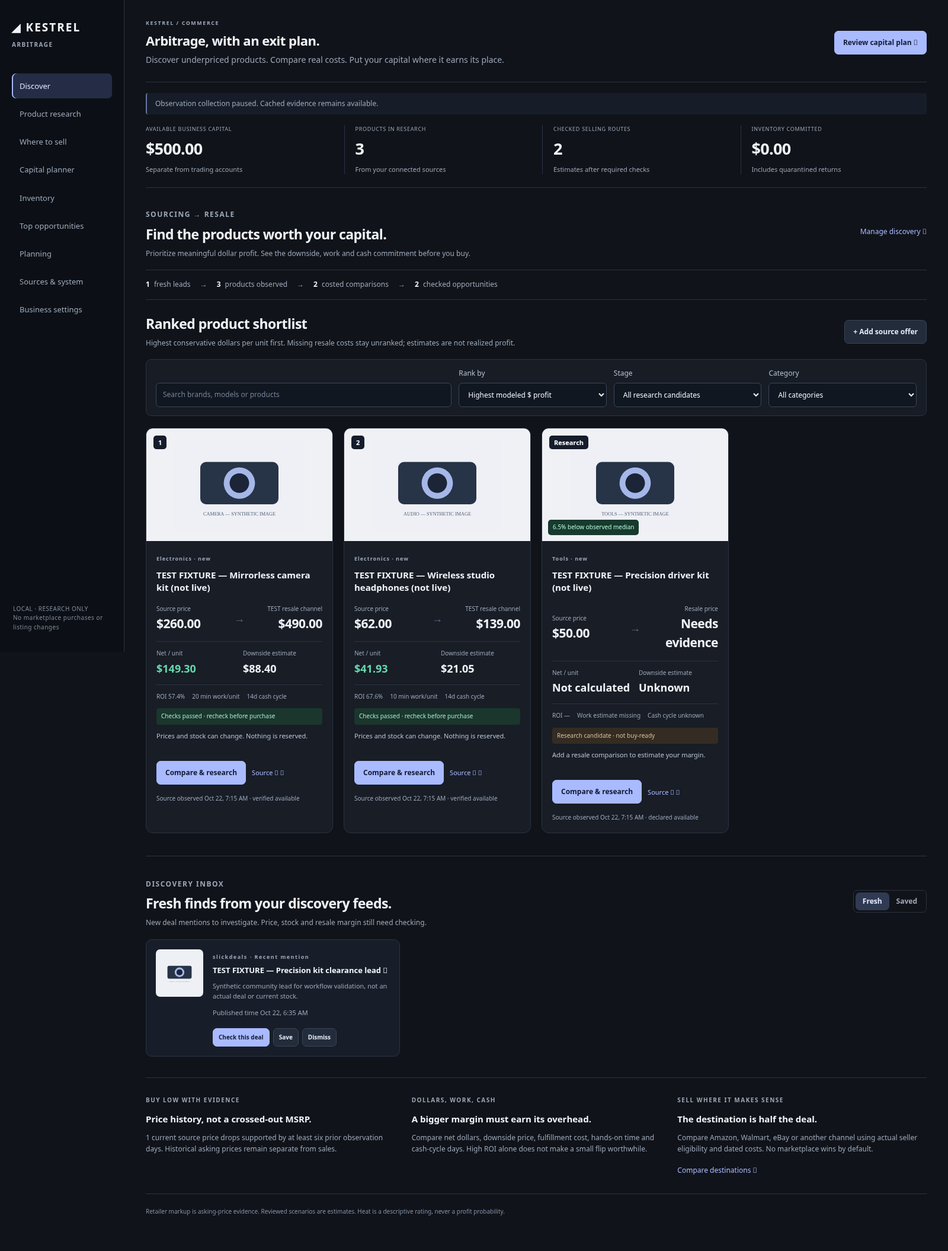
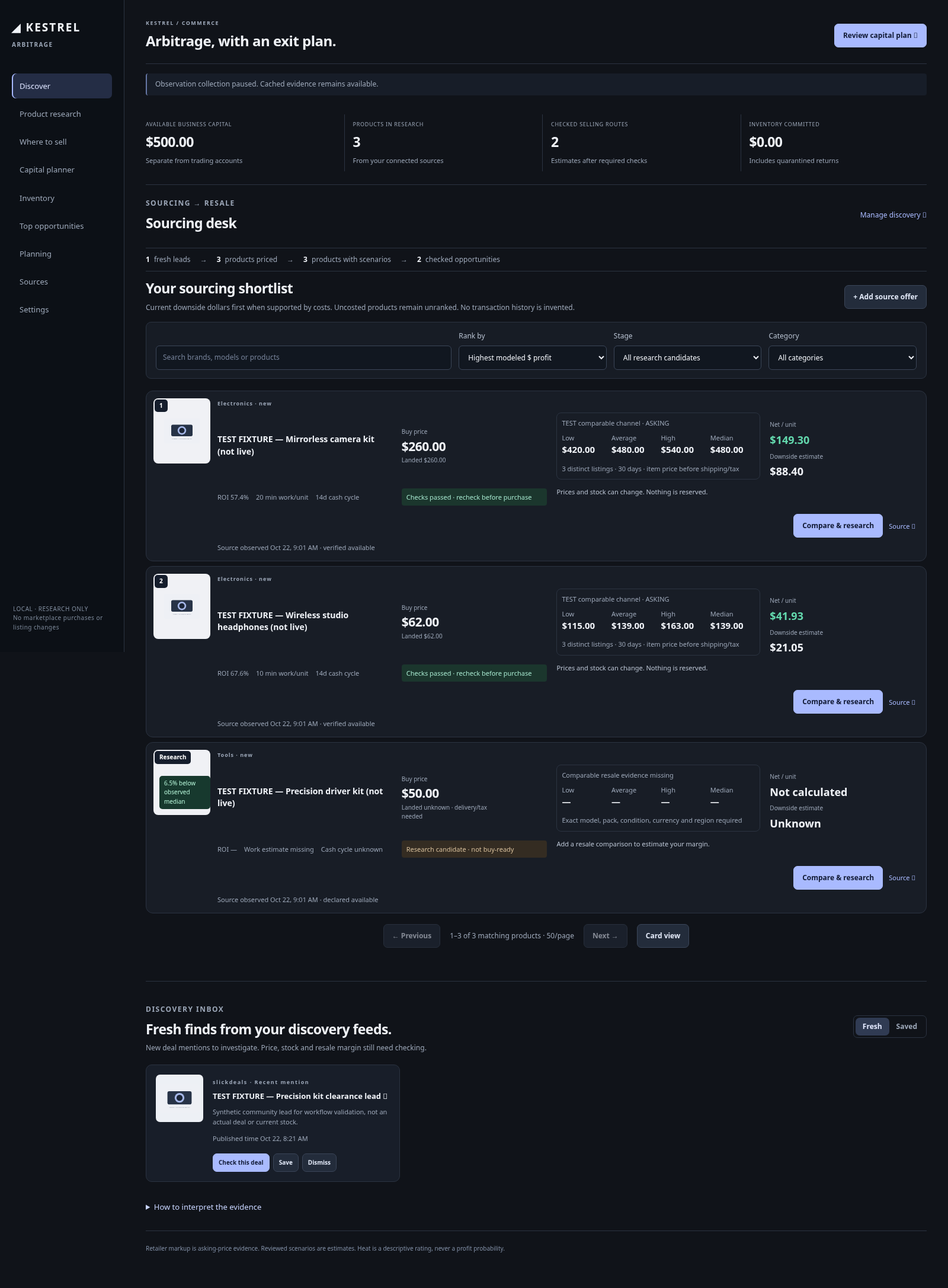
Verify Stocks and Arbitrage browser flows and repair catalog search

diff --git a/src/desk/arbitrage/static/app.js b/src/desk/arbitrage/static/app.js
@@ -147,7 +147,7 @@ function status() {
             ? "Another Arbitrage collector owns the lock; this dashboard reads its progress."
             : state.collector.active
               ? "Discovery is running. New leads and source observations appear as requests finish."
-              : "Collector inactive; enable it in Business settings."),
+              : "Collector inactive; enable it in Settings."),
     Boolean(state.coverage.analysis_error || state.collector.error),
   );
   $("#stats").innerHTML = [
@@ -252,7 +252,7 @@ function board(rows, qualified = false) {
           d.discount_fraction &&
           Number(d.discount_fraction) > 0,
       );
-      return `<article class="deal-card"><a class="product-photo" href="#product/${esc(p.id)}">${photo(p)}<span class="card-rank">${rank < 0 ? "Research" : rank + 1}</span>${drop ? `<span class="price-drop">${pct(drop.discount_fraction)} below observed median</span>` : ""}</a><div class="deal-body"><span class="eyebrow">${esc(p.category)} · ${esc(p.condition)}</span><h3><a href="#product/${esc(p.id)}">${esc(p.title)}</a></h3><div class="trade-path"><div><span>Buy price</span><strong>${o ? esc(money(o.price, o.currency)) : "Unknown"}</strong><small class="landed">Landed ${o && o.shipping != null && o.tax != null ? esc(money(Number(o.price) + Number(o.shipping) + Number(o.tax), o.currency)) : "unknown · delivery/tax needed"}</small></div><span class="path-arrow">→</span><div><span>${r ? esc(r.channel) : "Resale price"}</span><strong>${r ? esc(money(r.price, r.currency)) : "Needs evidence"}</strong></div></div>${resaleStats(b)}<div class="profit-strip"><span>Net / unit <strong class="${r && Number(r.net_profit) > 0 ? "good" : ""}">${r ? esc(money(r.net_profit, r.currency)) : "Not calculated"}</strong></span><span>Downside estimate <strong>${r ? esc(money(r.stress_profit, r.currency)) : "Unknown"}</strong></span></div><div class="card-facts"><span>ROI ${r ? pct(r.roi) : "—"}</span><span>${r?.effort_minutes ? `${r.effort_minutes} min work/unit` : "Work estimate missing"}</span><span>${r?.days_to_cash ? `${r.days_to_cash}d cash cycle` : "Cash cycle unknown"}</span></div><span class="evidence-state ${r?.qualifies ? "ready" : "pending"}">${r?.qualifies ? "Checks passed · recheck before purchase" : "Research candidate · not buy-ready"}</span><p class="next-step">${!p.identity_confirmed ? "Check the exact model, pack and condition." : !r ? "Add a resale comparison to estimate your margin." : esc(r.blockers[0] || "Prices and stock can change. Nothing is reserved.")}</p><div class="toolbar"><a class="button" href="#product/${esc(p.id)}">Compare & research</a>${o ? external(o.url, "Source ↗") : ""}</div><span class="caption">Source observed ${o ? esc(stamp(o.at)) : "never"} · ${o ? esc(availability(o).replaceAll("_", " ").toLowerCase()) : "No offer"}</span></div></article>`;
+      return `<article class="deal-card"><a class="product-photo" href="#product/${esc(p.id)}">${photo(p)}<span class="card-rank">${rank < 0 ? "Research" : rank + 1}</span>${drop ? `<span class="price-drop">${pct(drop.discount_fraction)} below observed median</span>` : ""}</a><div class="deal-body"><span class="eyebrow">${esc(p.category)} · ${esc(p.condition)}</span><h3><a href="#product/${esc(p.id)}">${esc(p.title)}</a></h3><div class="trade-path"><div><span>Buy price</span><strong>${o ? esc(money(o.price, o.currency)) : "Unknown"}</strong><small class="landed">Landed ${o && o.shipping != null && o.tax != null ? esc(money(Number(o.price) + Number(o.shipping) + Number(o.tax), o.currency)) : "unknown · delivery/tax needed"}</small></div><span class="path-arrow">→</span><div><span>${r ? esc(r.channel) : "Resale price"}</span><strong>${r ? esc(money(r.price, r.currency)) : "Needs evidence"}</strong></div></div>${resaleStats(b)}<div class="profit-strip"><span>Net / unit <strong class="${r && Number(r.net_profit) > 0 ? "good" : ""}">${r ? esc(money(r.net_profit, r.currency)) : "Not calculated"}</strong></span><span>Downside estimate <strong>${r ? esc(money(r.stress_profit, r.currency)) : "Unknown"}</strong></span></div><div class="card-facts"><span>ROI ${r ? pct(r.roi) : "—"}</span><span>${r?.effort_minutes ? `${r.effort_minutes} min work/unit` : "Work estimate missing"}</span><span>${r?.days_to_cash ? `${r.days_to_cash}d cash cycle` : "Cash cycle unknown"}</span></div><span class="evidence-state ${r?.qualifies ? "ready" : "pending"}">${r?.qualifies ? "Checks passed · recheck before purchase" : "Research candidate · not buy-ready"}</span><p class="next-step">${!p.identity_confirmed ? "Check the exact model, pack and condition." : !r ? "Add a resale comparison to estimate your margin." : esc(r.blockers[0] || "Prices and stock can change. Nothing is reserved.")}</p><div class="toolbar"><a class="button" href="#product/${esc(p.id)}">Compare & research</a>${o ? external(o.url, "Source") : ""}</div><span class="caption">Source observed ${o ? esc(stamp(o.at)) : "never"} · ${o ? esc(availability(o).replaceAll("_", " ").toLowerCase()) : "No offer"}</span></div></article>`;
     })
     .join("")}</div>`;
 }
@@ -271,7 +271,7 @@ function leadCards() {
               `<article class="lead-card"><div class="lead-image">${photo(l)}</div><div><span class="eyebrow">${esc(l.source_id.replace("deals-", ""))} · ${l.fresh ? "Recent mention" : "Older lead"}</span><h3>${external(l.url, l.title)}</h3><p>${esc(l.summary.slice(0, 160))}</p><span class="caption">${esc(l.age_basis)} ${esc(stamp(l.published_at || l.first_seen_at))}</span><div class="toolbar"><button class="primary" data-action="lead-offer" data-id="${esc(l.id)}">Check this deal</button><button data-action="lead-save" data-id="${esc(l.id)}">${l.saved ? "Unsave" : "Save"}</button><button data-action="lead-dismiss" data-id="${esc(l.id)}" aria-label="Dismiss ${esc(l.title)}">Dismiss</button></div></div></article>`,
           )
           .join("")}</div>`
-      : `<div class="empty compact"><h3>${browse.leads === "saved" ? "No saved leads yet" : "No recent feed leads have arrived"}</h3><p>${browse.leads === "saved" ? "Save a discovery lead to keep its research context." : "Two public feed adapters are included. Source access must succeed before deals appear; their live acceptance is still pending. eBay listings use a separate connection."}</p><a href="#sources">See source progress and connection options ↗</a></div>`
+      : `<div class="empty compact"><h3>${browse.leads === "saved" ? "No saved leads yet" : "No recent feed leads have arrived"}</h3><p>${browse.leads === "saved" ? "Save a discovery lead to keep its research context." : "Two public feed adapters are included. Source access must succeed before deals appear; their live acceptance is still pending. eBay listings use a separate connection."}</p><a href="#settings">See source progress and connection options ↗</a></div>`
   }`;
 }
 function orderedRows(qualified) {
@@ -280,8 +280,8 @@ function orderedRows(qualified) {
   );
   rows = rows.filter(
     (b) =>
-      (!browse.category || b.product.category === browse.category) &&
-      b.product.title.toLowerCase().includes(browse.query.toLowerCase()) &&
+      // The server searches title, brand and model across the catalog.
+      // Filtering again by title would hide valid brand/model matches.
       (browse.mode !== "qualified" || b.routes.some((r) => r.qualifies)) &&
       (browse.mode !== "fresh" ||
         b.offers.some(
@@ -345,7 +345,7 @@ function comparisons(b) {
   return `<section class="panel comparison-panel"><div class="section-heading"><div><p class="eyebrow">WHERE TO SELL</p><h2>${c?.recommended ? `Best checked destination: ${esc(c.recommended.channel)}` : "Compare the exit before buying."}</h2><p>${esc(c?.reason || "No destination comparisons yet.")}</p></div><button class="primary" data-action="route" data-id="${esc(b.product.id)}">+ Compare destination</button></div>${c?.alternatives.length ? `<div class="table-wrap"><table><thead><tr><th>Destination</th><th>Source → sell</th><th>Net / unit</th><th>Downside / break-even</th><th>Work / cash cycle</th><th>Remaining checks</th></tr></thead><tbody>${c.alternatives.map((r) => `<tr><td><strong>${esc(r.channel)}</strong><span class="meta">${esc(r.fulfillment)}</span></td><td>${esc(money(r.landed_cost, r.currency))} → ${esc(money(r.price, r.currency))}<br>${external(r.source_url, "Source offer")}</td><td class="${Number(r.net_profit) > 0 ? "good" : ""}"><strong>${esc(money(r.net_profit, r.currency))}</strong><span class="meta">${pct(r.roi)} ROI on landed cost</span></td><td>${esc(money(r.stress_profit, r.currency))}<br><span class="meta">Break-even ${esc(money(r.break_even, r.currency))}</span></td><td>${r.effort_minutes ? `${r.effort_minutes} min/unit` : "Work unknown"}<br>${r.days_to_cash ? `${r.days_to_cash} days` : "Timing unknown"}</td><td>${r.qualifies ? '<span class="good">Checks passed</span>' : r.blockers.map((x) => `<span class="blocker">${esc(x)}</span>`).join("")}<button class="text-button" data-action="route-edit" data-id="${esc(r.route_id)}">Edit assumptions</button></td></tr>`).join("")}</tbody></table></div>` : '<div class="empty compact"><h3>No selling destinations compared.</h3><p>Add a realistic resale price and actual channel costs. Missing fields stay unknown, so you can begin research without claiming a profitable purchase.</p></div>'}</section>`;
 }
 function sourceSetupHtml() {
-  return `<section class="panel"><h2>Source connections & saved searches</h2><p>Configure collection here. Browse collected products on the Sources page.</p><h3>Your automatic monitors</h3><p>Public feed adapters discover deal mentions, eBay searches discover active listings, and the retailer adapter watches exact product pages. Each source reports its actual access result below. New feed endpoints still require real-network acceptance; they are not a confirmed sales feed.</p><div class="toolbar"><button id="toggle">${state.settings.enabled ? "Pause collection" : "Resume collection"}</button><button data-action="source">Add supported product URL</button><button data-action="ebay-source">Add eBay search</button><button data-action="observation">Record real observation</button><button data-action="signal">Import evidence</button></div>${state.sources
+  return `<section class="panel"><h2>Source connections & saved searches</h2><p>Configure collection here. Browse collected products on the Sources page.</p><details><summary>External product research</summary><p>Search external sites by exact model. These links do not import results or confirm stock.</p><form id="discovery-form"><label>What do you want to source?<input id="discovery-query" type="search" placeholder="e.g. LEGO 75375 or DeWalt DCD800" required maxlength="100"></label><button class="primary">Find sourcing and resale searches</button></form><div id="discovery-links"></div></details><h3>Your automatic monitors</h3><p>Public feed adapters discover deal mentions, eBay searches discover active listings, and the retailer adapter watches exact product pages. Each source reports its actual access result below. New feed endpoints still require real-network acceptance; they are not a confirmed sales feed.</p><div class="toolbar"><button id="toggle">${state.settings.enabled ? "Pause collection" : "Resume collection"}</button><button data-action="source">Add supported product URL</button><button data-action="ebay-source">Add eBay search</button><button data-action="observation">Record real observation</button><button data-action="signal">Import evidence</button></div>${state.sources
       .map((s) => {
         const j = state.jobs[s.id] || {};
         return `<div class="line"><div>${external(s.url, s.id)} ${esc(s.query || "")}<br><span class="caption">${esc(j.status || "Waiting for first attempt")} · last success ${esc(j.last_ok_at || "None")}<br>${esc(j.error || "")}${j.retry_at ? "<br>Next retry after " + esc(j.retry_at) : ""}</span></div><span><span class="badge">${esc(s.adapter)}</span><button data-action="source-toggle" data-id="${esc(s.id)}">${s.enabled ? "Pause source" : "Resume source"}</button></span></div>`;
@@ -355,6 +355,54 @@ function sourceSetupHtml() {
       )}<h3>Coverage gaps</h3><p>Automatic completed-sales, broad retailer discovery, Amazon FBA/Walmart WFS fee estimates and marketplace eligibility checks are not connected. Enter reviewed scenarios and your own evidence locally; never paste private API credentials into chat.</p><p>FBA means Amazon stores, packs and ships your inventory for fees. WFS is Walmart’s fulfillment service. These services require separate seller eligibility and item-specific costs.</p><p class="caption">Asking-price retention: up to 90 days / 100,000 observations; eBay API listing cache is capped at 24 hours pending a fuller licensing review. Inventory events remain append-only. Ratings require a comparable channel/metric cohort and sufficient dated evidence.</p><a href="/api/capabilities" target="_blank" rel="noopener">Machine-readable capabilities & contracts ↗</a></section>`;
 }
 function bindSourceSetup() {
+    $("#discovery-form").onsubmit = (e) => {
+      e.preventDefault();
+      const q = encodeURIComponent($("#discovery-query").value.trim());
+      const links = [
+        [
+          "Google Shopping",
+          "https://www.google.com/search?tbm=shop&q=" + q,
+          "Compare advertised offers; stock and shipping vary.",
+        ],
+        [
+          "Slickdeals",
+          "https://slickdeals.net/newsearch.php?q=" + q,
+          "Community deal leads; posts may be expired.",
+        ],
+        [
+          "Walmart",
+          "https://www.walmart.com/search?q=" + q,
+          "Retail and marketplace offers; check seller and exact pack.",
+        ],
+        [
+          "Target",
+          "https://www.target.com/s?searchTerm=" + q,
+          "Retail search; local availability varies.",
+        ],
+        [
+          "eBay sold listings",
+          "https://www.ebay.com/sch/i.html?_nkw=" +
+            q +
+            "&LH_Sold=1&LH_Complete=1",
+          "Manual comparable research; accepted-offer prices may be hidden.",
+        ],
+        [
+          "Amazon",
+          "https://www.amazon.com/s?k=" + q,
+          "Compare listing prices; these are not confirmed sales.",
+        ],
+      ];
+      $("#discovery-links").innerHTML =
+        '<div class="source-grid">' +
+        links
+          .map(
+            ([name, url, note]) =>
+              `<article class="panel"><h3>${external(url, name)}</h3><span class="badge">External research · not an automatic feed</span><p>${esc(note)}</p></article>`,
+          )
+          .join("") +
+        "</div><p>Found a candidate? Use Record real observation below. Only eBay searches and supported retailer URLs are monitored automatically.</p>";
+    };
+
   $("#toggle").onclick = async () => {
     await save("/api/settings", {...state.settings, enabled: !state.settings.enabled});
   };

diff --git a/research/arbitrage/validation/browser_server.py b/research/arbitrage/validation/browser_server.py
@@ -6,6 +6,7 @@ from tempfile import TemporaryDirectory
 import uvicorn
 from desk.arbitrage.contracts import Product, Observation, Route, Settings, DealLead
 from desk.arbitrage.repo import Repo
+from desk.arbitrage.comparables import Comparable, save as save_comparable
 from desk.arbitrage.runner import initialize
 from desk.arbitrage.web import create_app
 from desk.core.paths import DeskPaths
@@ -14,7 +15,7 @@ with TemporaryDirectory(prefix='kestrel-arbitrage-ui-') as temporary:
     paths=DeskPaths(root/'data',root/'config',root/'no-credentials.json')
     initialize(paths)
     now=datetime.now(UTC)
-    p=Product(id='ui-fixture',title='TEST FIXTURE — Precision driver kit (not live)',brand='Fixture',mpn='FIX24',category='Tools',pack_count=1,variant='24 pieces',identity_confirmed=True,image_url='https://i.ebayimg.com/kestrel-test-tools.svg')
+    p=Product(id='ui-fixture',title='TEST FIXTURE — Precision driver kit (not live)',brand='Fixture',mpn='FIX24',gtin='012345678905',category='Tools',pack_count=1,variant='24 pieces',identity_confirmed=True,image_url='https://i.ebayimg.com/kestrel-test-tools.svg')
     with Repo.open(paths) as repo:
         repo.save_settings(Settings(capital=500,enabled=False))
         for d in range(7):
@@ -24,9 +25,16 @@ with TemporaryDirectory(prefix='kestrel-arbitrage-ui-') as temporary:
             ('camera','Mirrorless camera kit',Decimal('260'),Decimal('490'),Decimal('420'),20),
             ('headphones','Wireless studio headphones',Decimal('62'),Decimal('139'),Decimal('115'),10),
         ]:
-            product=Product(id='ui-'+key,title='TEST FIXTURE — '+title+' (not live)',category='Electronics',brand='Fixture',mpn=key,pack_count=1,identity_confirmed=True,image_url='https://i.ebayimg.com/kestrel-test-'+key+'.svg')
+            product=Product(id='ui-'+key,title='TEST FIXTURE — '+title+' (not live)',category='Electronics',brand='SyntheticOptics' if key=='camera' else 'SyntheticAudio',mpn='MODEL-'+key,gtin='4006381333931' if key=='camera' else '012345678905',pack_count=1,identity_confirmed=True,image_url='https://i.ebayimg.com/kestrel-test-'+key+'.svg')
             repo.observe(Observation(product=product,source_id='ui-'+key,url='https://www.adafruit.com/product/4300',price=price,currency='USD',at=now,availability='VERIFIED_AVAILABLE',region='US',quantity=1,shipping=0,tax=0,verified_until=now+timedelta(minutes=5),method='synthetic-browser-fixture',evidence='SYNTHETIC: no real stock or price'))
             repo.save_route(Route(id='route-'+key,product_id=product.id,channel='TEST resale channel',sale_price=sale,stress_price=stress,fee_fraction=Decimal('.13'),fixed_fee=0,fulfillment_cost=8,return_allowance=5,overhead=4,monthly_cost=0,days_to_cash=14,effort_minutes=minutes,demand_limit=1,eligible=True,identity_confirmed=True,reviewed=True,fee_version='synthetic',evidence_note='Synthetic test only',valid_until=now+timedelta(days=1)))
+            for index, sample_price in enumerate([420, 480, 540] if key=='camera' else [115, 139, 163]):
+                save_comparable(repo, Comparable(id=f'fixture-{key}-{index}',product_id=product.id,
+                    title=product.title,channel='TEST comparable channel',
+                    url=f'https://www.ebay.com/itm/fixture-{key}-{index}',price=sample_price,
+                    currency='USD',region='US',condition=product.condition,pack_count=1,gtin=product.gtin,
+                    evidence_type='ASKING',at=now-timedelta(days=index),
+                    evidence_note='SYNTHETIC browser fixture, not an actual listing or sale'))
         repo.save_leads([DealLead(id='ui-deal',source_id='deals-slickdeals',title='TEST FIXTURE — Precision kit clearance lead',url='https://slickdeals.net/f/123-fixture',summary='Synthetic community lead for workflow validation, not an actual deal or current stock.',published_at=now-timedelta(minutes=40),first_seen_at=now,retrieved_at=now,image_url='https://i.ebayimg.com/kestrel-test-tools.svg')])
     app=create_app(paths,auto_start=False)
     @app.get('/test-fixture-identity')

diff --git a/src/desk/arbitrage/repo.py b/src/desk/arbitrage/repo.py
@@ -149,12 +149,18 @@ class Repo:
                     current_at: str = "") -> tuple[list[str], int]:
         args = (query[:200], query[:200], category[:80], category[:80], source_host, source_host)
         total = self.conn.execute("SELECT COUNT(*) FROM arb_products p WHERE "
-            "(?='' OR instr(lower(json_extract(p.body,'$.title')), lower(?))>0) "
+            "(?='' OR instr(lower(json_extract(p.body,'$.title') || ' ' || "
+                  "coalesce(json_extract(p.body,'$.brand'),'') || ' ' || "
+                  "coalesce(json_extract(p.body,'$.mpn'),'') || ' ' || "
+                  "coalesce(json_extract(p.body,'$.gtin'),'')), lower(?))>0) "
             "AND (?='' OR json_extract(p.body,'$.category')=?) "
             "AND (?='' OR EXISTS(SELECT 1 FROM arb_product_sources m WHERE m.product_id=p.id AND m.host=?))", args).fetchone()[0]
         rows = self.conn.execute("SELECT p.id FROM arb_products p LEFT JOIN arb_opportunity_index x "
             "ON x.product_id=p.id AND x.at>=? AND json_extract(x.body,'$.catalog_expires_at')>=? WHERE "
-            "(?='' OR instr(lower(json_extract(p.body,'$.title')), lower(?))>0) "
+            "(?='' OR instr(lower(json_extract(p.body,'$.title') || ' ' || "
+                  "coalesce(json_extract(p.body,'$.brand'),'') || ' ' || "
+                  "coalesce(json_extract(p.body,'$.mpn'),'') || ' ' || "
+                  "coalesce(json_extract(p.body,'$.gtin'),'')), lower(?))>0) "
             "AND (?='' OR json_extract(p.body,'$.category')=?) "
             "AND (?='' OR EXISTS(SELECT 1 FROM arb_product_sources m WHERE m.product_id=p.id AND m.host=?)) ORDER BY "
             "CASE WHEN ?='profit' AND x.profit>0 THEN x.profit END DESC, "

diff --git a/tests/unit/test_arbitrage_catalog.py b/tests/unit/test_arbitrage_catalog.py
@@ -140,6 +140,22 @@ def test_profit_index_is_global_and_invalidated_when_source_price_changes(tmp_pa
         assert repo.conn.execute("SELECT COUNT(*) FROM arb_opportunity_index").fetchone()[0] == 0
 
 
+def test_catalog_metadata_search_keeps_count_pagination_and_category_consistent(tmp_path: Path) -> None:
+    paths = DeskPaths(tmp_path / "data", tmp_path / "config", tmp_path / "private")
+    with Repo.open(paths) as repo:
+        for i in range(55):
+            repo.save_product(Product(id=f"p{i:02d}", title=f"Distinct item {i:02d}",
+                brand="OpticsTest", mpn="MODEL-needle", gtin=GTIN,
+                category="Tools" if i == 54 else "Electronics"))
+        repo.save_product(Product(id="other", title="Unrelated", category="Tools"))
+        for query in ["opticstest", "MODEL-needle", GTIN]:
+            ids, total = repo.catalog_ids(query=query, offset=50)
+            assert total == 55 and len(ids) == 5 and "other" not in ids
+            ids, total = repo.catalog_ids(query=query, category="Tools")
+            assert total == 1 and ids == ["p54"]
+        assert repo.catalog_ids(query="%'")[1] == 0  # Literal text, never a SQL pattern/expression.
+
+
 async def test_in_memory_api_pagination_csrf_and_atomic_comparable_import(tmp_path: Path) -> None:
     from desk.arbitrage.runner import initialize
     from desk.arbitrage.web import create_app

diff --git a/research/KESTREL_CHAT_CONTEXT.md b/research/KESTREL_CHAT_CONTEXT.md
@@ -158,7 +158,7 @@ The baseline inspected at the start of this pass was commit `3b9e305` on `codex/
 
 That baseline's earlier full offline test report was 1210 passed / five live tests excluded. **Do not apply that old result to the new working-tree changes.**
 
-### New Stocks changes in the working tree
+### Current Stocks build changes
 
 - Added descriptive market/options activity rankings with no social or committee input; the default home list uses market/options activity and keeps social attention separate.
 - Options/market weights are heuristic activity priorities, not an independently validated predictive model or probability. Correlated metrics remain a limitation.
@@ -167,10 +167,10 @@ That baseline's earlier full offline test report was 1210 passed / five live tes
 - Rotates sampled options by underlying dollar liquidity, not committee/social rank.
 - A symbol failure no longer discards unaffected symbol requests; total provider failure is no longer a successful options job.
 - ETF pages receive a read-only market/risk/options profile without company valuation or an invented company committee score. ETF lookback warm-up is explicit.
-- Chart pointer/touch/keyboard inspection updates headline price/date/change and resets appropriately. Browser regression code was extended, but browser execution remains blocked.
+- Chart pointer/touch/keyboard inspection updates headline price/date/change and resets appropriately. Current desktop/mobile Chromium checks pass for pointer, keyboard and native touch input/reset.
 - Existing primary PAPER selection behavior and LIVE/order authorization boundaries are preserved.
 
-### New Arbitrage changes in the working tree
+### Current Arbitrage build changes
 
 - Added public merchant catalog candidates: Adafruit sitemap traversal and an Arduino public Shopify-style catalog parser. Robots/access failures stay failures; currency must be explicitly published, not guessed. Actual endpoint compatibility is not verified here.
 - Persistent merchant URL queue, bounded enrichment, fair new/refresh batches, source-pause checks and request reservations.
@@ -197,21 +197,34 @@ That baseline's earlier full offline test report was 1210 passed / five live tes
 
 ## Validation and environment blockers
 
-The final targeted modified-module regression run passed **104 tests**, with five threaded/full-HTTP tests deselected (19.35 seconds). This is not a complete repository or browser test pass. Ruff and strict Mypy passed across 231 source files. JavaScript syntax checks passed.
+The latest complete offline regression passed **1,229 tests**, with five opt-in live-provider tests excluded by
+the repository default marker (110.18 seconds). HTTP middleware, session/CSRF, pagination and atomic comparable
+CSV imports are included. Ruff and strict Mypy passed across 231 source files. JavaScript syntax checks passed.
 
-A 10,000-product synthetic capacity experiment verified distinct products, persistent queues, first/middle/last 50-product pages, full-catalog search and bounded response size. The final recorded capacity check took approximately 0.02–0.025 seconds/page, returned 86,640 bytes for its last page, and peaked at 37.52 MiB process RSS. Database files totaled 17,162,240 bytes for that fixture. These are cloud synthetic measurements, not production or Dell measurements.
+Current Chromium acceptance passed Arbitrage at 1600/390px, nine routes, image decoding, price statistics,
+CSV upload/plot, inventory/refunds, private credential forms, source grouping, Settings setup, full-catalog brand/model
+search, ranking and research links. Stocks populated/empty at 1366/375px, readiness states, ETF profile, chart
+headline pointer/keyboard/native touch inspection and reset, PAPER, Settings and CSP passed. All fixtures are
+isolated synthetic records. Browser review found and fixed metadata search and a dropped research-link form.
 
-Browser/server verification is blocked in this environment. An escalated fixture-server command was rejected because **automatic approval review hit an account usage limit**, not because it determined the action was unsafe. A later non-escalated Chromium check failed with an OS `setsockopt: Operation not permitted` error. In-memory FastAPI/sync-worker tests also stalled under the restricted environment and were bounded with timeouts. A broad regression attempt did not finish before its timeout; it is not a passing full-suite result.
+A 10,000-product synthetic capacity experiment measured 0.0217–0.0256 seconds/page, 86,640 bytes on the last page,
+37.69 MiB peak RSS and 17,162,240 database bytes. These are cloud synthetic measurements, not production sourcing
+or Dell hardware measurements. Newly verified real source offers: zero.
 
-The active cloud network policy allows crypto hosts and package/GitHub presets, but not the retailer/eBay/competitor hosts needed for real-source acceptance. An earlier additive network draft exists but is not published. Saving a draft is not applying the network policy. Do not claim that opening an edit panel or 'allow all' automatically changed the active policy.
+Earlier approval-review usage/sandbox failures are resolved for elevated local tests, browser/server execution and
+GitHub access. The full suite and browser tests above actually executed. Public retailer/eBay-documentation/competitor
+requests still receive proxy tunnel HTTP 403. Runtime desired policy reports unrestricted with unknown enforcement;
+actual source access remains unsuccessful. Private laptop eBay credentials remain unavailable. An earlier saved
+configuration draft does not establish working retailer access. Do not bypass denials or invent competitor findings.
 
-A normal Git fetch failed in this session because of network access. Verify publication before telling the user to pull new changes. Do not issue a command that assumes these working-tree changes are on origin when they are not.
+GitHub fetch works and the remote branch was checked for divergence. Verify the final release commit/push in the
+repository before assuming that the user's laptop has updated. The laptop receives changes only after pulling them.
 
 ## Where the next AI should start
 
-1. Inspect actual repository, working tree, branch and applicable instructions. Do not reset or discard the uncommitted work described here.
+1. Inspect actual repository, working tree, branch and applicable instructions. Preserve local and remote work.
 2. Read the current durable research/handoff files and run appropriate checks that the environment actually permits.
-3. Finish the Stocks chart/ranking/profile verification and Arbitrage Sources/Settings/browser flows, clearly distinguishing pending tests from passed tests.
+3. Preserve the passing Stocks and Arbitrage browser/HTTP/offline regressions; rerun relevant checks after changes.
 4. Reconcile current catalog/ranking/price/availability inputs, exact matching, stale-data expiration and financial accounting before adding more indicators or arbitrary scores.
 5. Complete real-source acceptance using permitted domains and the user's locally configured connections. Do not ask for secrets in chat or bypass source restrictions.
 6. Research accessible official competitor documentation/demos and convert only feasible useful ideas into complete workflows. Clearly label unavailable capabilities/data.
@@ -621,7 +634,9 @@ The standard is an application that materially improves my ability to find, rese
 
 ## Export follow-up checkpoint
 
-After requesting this Markdown, the user explicitly asked to resume the ongoing build. Source/navigation work and
-review continued. A new runtime permission request returned `network:null` (no grant). An additive cloud-domain
-draft was confirmed saved with `requires_publish:true`; it has not changed the active policy. Browser/real-source
-acceptance and remote publishing remain blocked/unconfirmed. Do not claim the user's laptop has received this code.
+After requesting this Markdown, the user explicitly asked to resume the ongoing build, then said to retry after
+granting full access. Elevated local execution and GitHub access now work. Full offline and current browser checks
+passed; search and Settings research-link defects found during browser review were repaired. Durable validation
+records/screenshots were refreshed. Public source HTTP still receives proxy 403, and real business acceptance
+remains open. Preserve that distinction when continuing. See the repository/release record for final push status;
+no access to the operator's laptop or private credentials is claimed.

diff --git a/research/arbitrage/REBUILD_CHECKPOINT.md b/research/arbitrage/REBUILD_CHECKPOINT.md
@@ -1,8 +1,8 @@
 # Operator rebuild checkpoint — 2026-10-22
 
 This is implemented development work, **not a completed live-business acceptance**. New real-source coverage in this
-cloud session is zero. Earlier product screenshots and browser reports describe the previous baseline. The current
-GUI has syntax/static checks and handler/projection tests; its actual browser acceptance remains blocked.
+cloud session is zero. Current desktop/mobile screenshots and browser reports were regenerated against isolated
+synthetic fixtures. Full offline and local-browser checks now pass; real-source/business acceptance remains open.
 
 ## Operator workflow delivered in this pass
 
@@ -67,15 +67,25 @@ numbers. It proves neither real market coverage nor Dell/browser/power-loss perf
 
 ## Validation and limits
 
-Read `validation/rebuild-checks.json`: 104 targeted tests passed, five threaded/full-HTTP tests deselected. Targeted tests cover primary Stocks analysis/PAPER regressions and Arbitrage
-pricing, accounting, queues, pagination, matching, expiry, source-failure veto, protected records and handler-level
-CSV/projection behavior. Strict Mypy and Ruff pass. Syntax checks cover changed JS and browser scripts.
+Read `validation/rebuild-checks.json`: the complete offline suite passed **1,229 tests**, with five opt-in live
+provider tests excluded by the default marker (110.18 seconds). This includes HTTP middleware, session/CSRF,
+pagination and atomic CSV import, primary Stocks analysis/PAPER, source failures, accounting, exact matching,
+expiry, cache invalidation and protected records. Ruff and strict Mypy pass across 231 source files.
 
-Browser/server commands requiring escalation could not execute because automatic approval review reported an
-account usage limit, not an unsafe-action finding. A normal Chromium launch also failed on restricted socket
-operations. Threaded/in-memory HTTP tests stalled and were bounded with timeouts; they are not passing HTTP tests.
-A broader regression run timed out; its prior baseline full-suite result must not be reused for this revision.
-No current desktop/mobile screenshots or decoded-image/browser-flow acceptance are claimed.
+Actual Chromium checks passed for Arbitrage desktop (1600px) and mobile (390px), nine routes, decoded fixture
+images, comparable low/average/high/median, CSV upload/price plot, identity/availability review, inventories and
+refunds, private credential forms, Settings-only configuration, Sources product grouping, global brand/model
+search, profit-vs-ROI ranking and external research links. No uncaught JS errors or horizontal overflow were found.
+Stocks populated/empty desktop (1366px) and phone (375px), readiness states, ETF profile, chart headline pointer,
+keyboard and native Chromium touch inspection passed. The servers used disposable data and no operator secrets.
+
+Browser review found and fixed metadata search (both backend and frontend), restored research links in Settings,
+and corrected test timing/selectors after server-side pagination and navigation changes. Current screenshots and
+JSON reports are software evidence, not live offers, demand, profitable strategies or completed sales.
+
+Earlier approval-review usage failures are resolved for local browser/test/server execution and GitHub fetch.
+Public source requests still receive tunnel HTTP 403 from the configured proxy; see `validation/source-access-checks.json`.
+Do not bypass that restriction or describe real retailer integration as accepted.
 
 ## Source and capability matrix
 
@@ -109,7 +119,7 @@ invented. Functional improvements above follow the operator requirements and rep
 falsely attributed to examined competitor software. Access-enabled research remains outstanding.
 
 Priority next work:
-1. Run current isolated browser/HTTP tests and fix actual desktop/mobile/source-image/form defects found there.
+1. Preserve the passing offline/browser checks; re-run relevant tests when implementation changes.
 2. Verify permitted real catalog -> exact product -> resale evidence -> realistic dated fees/eligibility slice.
    Check actual production eBay access locally without exposing credentials. Do not claim thousands of real offers.
 3. Complete competitor review from accessible official material and measure which workflows reduce operator work.
@@ -119,7 +129,7 @@ Priority next work:
    saved-alert/noise evaluation and richer stock/workload filters only against supported records.
 6. Measure actual Dell browser/backend resource use, network outages, sleep/resume and power-loss recovery.
 
-An additive cloud-domain draft has been saved with `requires_publish=true`. It preserves existing entries and adds
-catalog/feed/research hosts, but is inactive until reviewed/saved in environment settings and the environment
-published. Private laptop API credentials have not been accessed. Normal Git fetch also failed on network access;
-verify remote publication before giving the operator pull commands for these changes.
+An earlier additive cloud-domain draft was saved. Current runtime status reports unrestricted mode with unknown
+enforcement, while actual retailer/competitor HTTP requests receive tunnel 403. Local elevated browser/tests and
+GitHub fetch now work. Private laptop API credentials have not been accessed. Verify the branch push before telling
+the operator the update is available; a working GitHub connection is not working retailer access.

diff --git a/research/STOCKS_AND_ARBITRAGE_QUEUE.md b/research/STOCKS_AND_ARBITRAGE_QUEUE.md
@@ -1,14 +1,15 @@
 # Operator task queue — 2026-10-22
 
-Stocks ranking/ETF/chart changes are locally committed as `2a0dbbb`; primary PAPER analysis regressions pass.
-Browser headline-price/ETF/home-list checks remain blocked by runtime/approval limits. No LIVE boundary changed.
+Stocks activity/ETF/chart and Arbitrage sourcing/navigation/price-evidence changes are implemented. Full offline
+suite: 1,229 passed, five opt-in live-provider tests excluded. Current Chromium desktop/mobile flows pass, including
+chart pointer/keyboard/touch, ETF profiles, comparable CSV import/statistics, metadata search and Settings/Sources.
+No LIVE boundary changed. Read `arbitrage/REBUILD_CHECKPOINT.md`, its validation JSON and the full operator request.
 
-Arbitrage operator rebuild is implemented as a development checkpoint, not fully accepted. Read
-`arbitrage/REBUILD_CHECKPOINT.md`, `arbitrage/validation/rebuild-checks.json` and the full
-`arbitrage/OPERATOR_REBUILD_REQUEST.md`. Source configuration is in Settings; Sources groups actual priced offers
-by merchant/marketplace. Real source coverage remains unverified and current browser/HTTP tests have not completed.
+Real-source/business acceptance remains open: retailer and competitor requests still receive proxy tunnel 403;
+private eBay credentials are unavailable here. Do not claim thousands of real offers or independent historical sales.
+Source setup is in Settings; Sources browses products grouped by actual retailer/marketplace. Settlement/payout,
+actual demand, account-specific fee/eligibility integrations, richer sources and Dell physical recovery remain open.
 
-Keep private laptop credentials, existing data and separate business/trading capital intact. A saved additive
-network draft is inactive pending environment review/save/publish. Do not claim a remote update is available until
-push is verified. A normal fetch failed in this environment. The portable conversation export is
-`research/KESTREL_CHAT_CONTEXT.md` (also copied to `/workspace/KESTREL_CHAT_CONTEXT.md`).
+GitHub fetch now works. Verify the release commit on origin before giving update commands; preserve any remote
+work. Keep laptop credentials, running collectors and separate capital/data intact. The portable conversation
+handoff is `research/KESTREL_CHAT_CONTEXT.md`, also exported to `/workspace/KESTREL_CHAT_CONTEXT.md`.

diff --git a/docs/ARBITRAGE.md b/docs/ARBITRAGE.md
@@ -31,7 +31,7 @@ paused it. The new desk has independent data, credentials and locks. Its icon op
 2. Open **Settings** to see the actual state of each automatic feed/monitor. Public feed candidates need
    no API key; their real-network acceptance is pending. A blocked or broken source shows its error and retains
    already recorded work. No sample products are substituted for a failed source.
-3. **Business settings → Data connections & setup guides** explains each source, free-access conditions and limits.
+3. **Settings → Data connections & setup guides** explains each source, free-access conditions and limits.
    Optional eBay active-listing discovery requires your approved Production app credentials. Save them privately
    in the app; blank fields preserve saved credentials. Do not press Ctrl+C to save credentials.
 4. **Check this deal** opens the original published lead. Follow it to the merchant, then enter the actual product
@@ -49,7 +49,7 @@ paused it. The new desk has independent data, credentials and locks. Its icon op
 8. **Where to sell** compares your covered alternatives. A best checked destination appears only when required
    checks pass. Main-page numeric profit ranks require current source observations and positive downside economics;
    other products remain visible as research, without a numeric profit rank.
-9. Set your actual separate business capital/reserve in **Business settings** when you want a capital plan.
+9. Set your actual separate business capital/reserve in **Settings** when you want a capital plan.
    Capital includes inventory at cost; this is independent of all $500 trading reference accounts. **Capital planner**
    applies cash, quantity and concentration constraints. A high unit margin does not authorize exceeding them.
 10. Record owned stock and actual net sales/refunds in **Inventory**. Returned units stay quarantined until

diff --git a/research/STOCKS_ACTIVITY_FIXES.md b/research/STOCKS_ACTIVITY_FIXES.md
@@ -25,8 +25,8 @@ selected range. Leaving/canceling restores latest stored close and change versus
 left/right/Home/End inspect observations, Escape resets. Line/candles and range redraws reset correctly. No filled
 candles or invented intraday prices.
 
-Validation: new unit checks cover quote/session/dedup, social independence, premium ranking across >25 names, ETF
-read-only profile. Stocks analysis + PAPER regression pass (16 tests before the final ETF test addition). Browser
-regression was extended for headline scrubbing. Execution of its local fixture server was rejected because automatic
-approval review could not run due to an account usage limit; this is not a safety determination. Browser execution
-remains outstanding. Do not describe browser interaction as verified until that test runs.
+Validation: the full offline suite passed 1,229 tests (five opt-in live-provider tests excluded), with Ruff and
+strict Mypy passing. Actual Chromium checks passed populated and empty navigation at 1366/375px, readiness states,
+ETF profile, pointer and keyboard chart headline inspection/reset, and native Chromium touch input/reset. PAPER,
+private Settings forms and CSP checks passed. These disposable fixture checks do not establish genuine forward
+performance, provider access or physical Dell behavior. No LIVE boundary was changed.

diff --git a/research/arbitrage/HANDOFF.md b/research/arbitrage/HANDOFF.md
@@ -3,8 +3,10 @@
 Read `REBUILD_CHECKPOINT.md`, `validation/rebuild-checks.json`, `OPERATOR_REBUILD_REQUEST.md` and
 `../STOCKS_ACTIVITY_FIXES.md` first. The current working pass changes source pagination, merchant queues,
 exact comparable research, server catalog paging, price statistics, source navigation and cache invalidation.
-Source setup is in Settings; Sources is product browsing by actual merchant/marketplace. Real-source acceptance
-and current browser/HTTP verification remain open. No live trade, purchase or seller mutation was enabled.
+Source setup is in Settings; Sources groups actual merchant products. Current Chromium desktop/mobile tests,
+HTTP middleware/import tests and the full offline suite pass (1,229 passed; five live-provider tests excluded).
+Current screenshots are isolated synthetic fixtures. Real source requests still receive proxy tunnel 403.
+GitHub fetch and elevated local test execution now work; verify push status before issuing laptop update commands.
 
 The earlier handoff below is historical baseline context; its screenshots/test results do not certify the new work.
 
